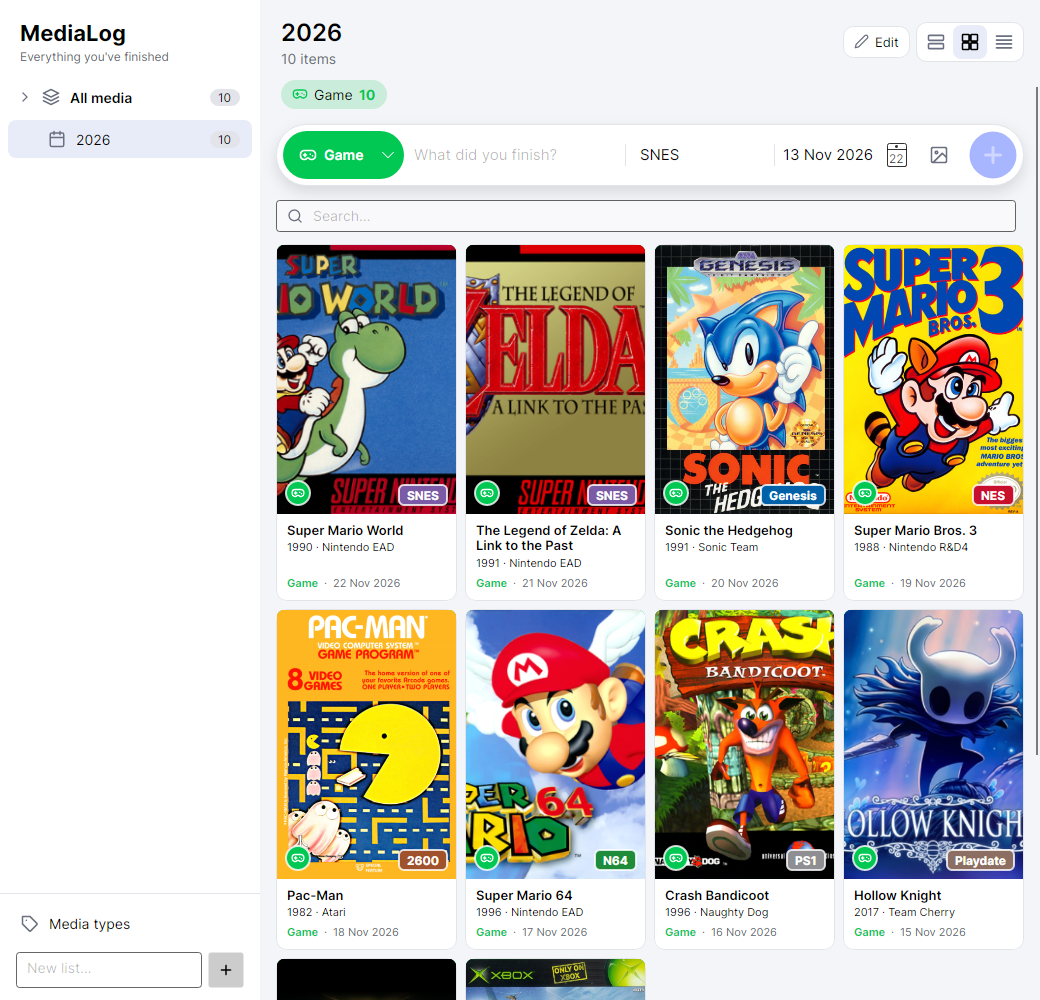
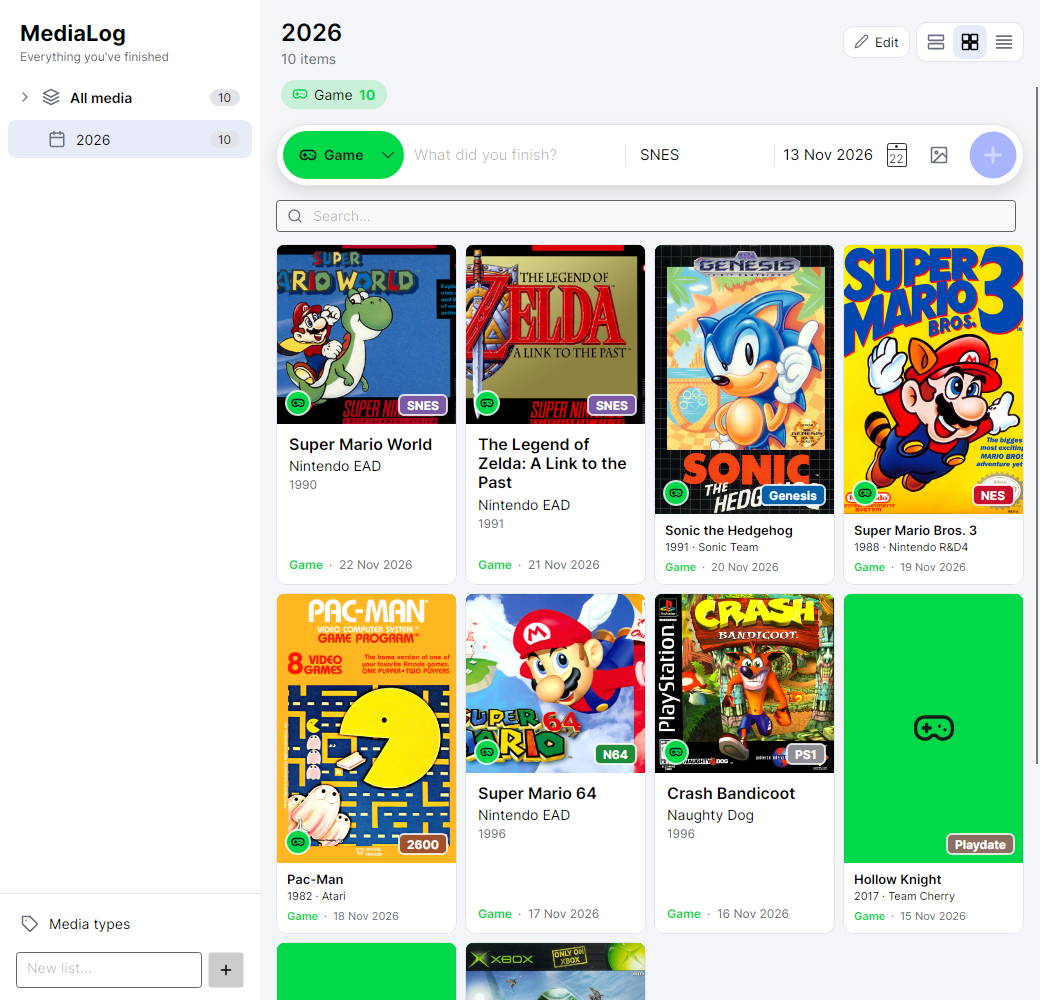
MediaLog: retro game title lookup, image-driven tile shape, badge placement
- Game title suggestions use a full-text Wikidata search restricted to
  video games (any words of the title match, not just the start), and
  with a retro console set also suggest matching titles from the
  libretro box-art collection (with cover and console).
- Tile cover shape follows the chosen image: square-ish art (albums,
  most retro game boxes) gets 1:1, tall art 2:3; without an image the
  type decides.
- Console badge sits at the end of the entry details in cards and
  compact views; compact dates no longer touch the edge.

Claude-Session: https://claude.ai/code/session_01NWBCcXr1uMHCvRDya14kEE

Changed region(s): [[0.2462, 0.248, 0.9846, 1.0], [0.3077, 0.155, 0.3385, 0.186]]

diff --git a/apps/MediaLog/MediaLog/Services/MetadataService.cs b/apps/MediaLog/MediaLog/Services/MetadataService.cs
@@ -39,14 +39,17 @@ public static class MetadataService
     private delegate Task<List<MediaSuggestion>> Source(string query, CancellationToken ct);
 
     /// <summary>Yields suggestions as each source answers (best source first when they're equally fast).</summary>
+    /// <param name="platform">Console of a game: retro consoles also search the libretro box-art titles.</param>
     public static async IAsyncEnumerable<IReadOnlyList<MediaSuggestion>> SuggestAsync(string query, MediaTypeInfo? type,
-        [EnumeratorCancellation] CancellationToken ct)
+        string? platform, [EnumeratorCancellation] CancellationToken ct)
     {
         query = query.Trim();
         if (query.Length < 2)
             yield break;
 
         var sources = SourcesFor(MediaCategories.Of(type));
+        if (MediaCategories.Of(type) == MediaCategory.Game && Platforms.BoxArtRepo(platform) is { } repo)
+            sources = [.. sources, RetroTitles(repo, platform!)];
         var tasks = sources.Select(s => SafeAsync(s, query, ct)).ToList();
         // With several sources, cap each so a fast one doesn't crowd out the others.
         var perSource = sources.Length > 1 ? 5 : MaxResults;
@@ -161,18 +164,36 @@ public static class MetadataService
     private static Source Wikidata(WikidataKind kind) => async (query, ct) =>
     {
         const string api = "https://www.wikidata.org/w/api.php?format=json&origin=*";
-        using var search = await GetJsonAsync(
-            $"{api}&action=wbsearchentities&type=item&language=en&uselang=en&limit=12&search={Uri.EscapeDataString(query)}", ct)
-            .ConfigureAwait(false);
-        var hits = search.RootElement.GetProperty("search").EnumerateArray()
-            .Select(h => (Id: Str(h, "id")!, Label: Str(h, "label") ?? query, Description: Str(h, "description")))
-            .Where(h => h.Id is not null)
-            .ToList();
+        List<(string Id, string? Label, string? Description)> hits;
+        if (kind == WikidataKind.Game)
+        {
+            // Full-text search restricted to video games: any words of the title match
+            // ("zelda link to the past"), unlike the label-prefix entity search.
+            var filter = string.Join('|', GameClasses.Select(c => "P31=" + c));
+            using var search = await GetJsonAsync(
+                $"{api}&action=query&list=search&srnamespace=0&srlimit=12&srprop=" +
+                $"&srsearch={Uri.EscapeDataString($"{query} haswbstatement:{filter}")}", ct).ConfigureAwait(false);
+            hits = search.RootElement.GetProperty("query").GetProperty("search").EnumerateArray()
+                .Select(h => (Id: Str(h, "title")!, Label: (string?)null, Description: (string?)null))
+                .Where(h => h.Id is not null)
+                .ToList();
+        }
+        else
+        {
+            using var search = await GetJsonAsync(
+                $"{api}&action=wbsearchentities&type=item&language=en&uselang=en&limit=12&search={Uri.EscapeDataString(query)}", ct)
+                .ConfigureAwait(false);
+            hits = search.RootElement.GetProperty("search").EnumerateArray()
+                .Select(h => (Id: Str(h, "id")!, Label: Str(h, "label"), Description: Str(h, "description")))
+                .Where(h => h.Id is not null)
+                .ToList();
+        }
         if (hits.Count == 0)
             return [];
 
         using var entities = await GetJsonAsync(
-            $"{api}&action=wbgetentities&props=claims|sitelinks&sitefilter=enwiki&ids={string.Join('|', hits.Select(h => h.Id))}", ct)
+            $"{api}&action=wbgetentities&props=claims|sitelinks|labels|descriptions&languages=en&sitefilter=enwiki" +
+            $"&ids={string.Join('|', hits.Select(h => h.Id))}", ct)
             .ConfigureAwait(false);
         var all = entities.RootElement.GetProperty("entities");
 
@@ -188,6 +209,10 @@ public static class MetadataService
         {
             if (!all.TryGetProperty(hit.Id, out var entity) || !entity.TryGetProperty("claims", out var claims))
                 continue;
+            var label = hit.Label ?? EnglishText(entity, "labels");
+            if (label is null)
+                continue;
+            var description = hit.Description ?? EnglishText(entity, "descriptions");
             var classes = ItemIds(claims, "P31");
             var creatorId = creatorProps.Select(p => ItemIds(claims, p).FirstOrDefault()).FirstOrDefault(id => id is not null);
             var matches = kind switch
@@ -212,7 +237,7 @@ public static class MetadataService
             if (entity.TryGetProperty("sitelinks", out var links) && links.TryGetProperty("enwiki", out var enwiki))
                 article = Str(enwiki, "title");
             var platformId = kind == WikidataKind.Game ? ItemIds(claims, "P400").FirstOrDefault() : null;
-            items.Add((hit.Label, hit.Description, year, creatorId, length, article, platformId));
+            items.Add((label, description, year, creatorId, length, article, platformId));
         }
         if (items.Count == 0)
             return [];
@@ -241,6 +266,9 @@ public static class MetadataService
                 i.PlatformId is { } p ? names.GetValueOrDefault(p) : null))
             .ToList();
     };
+
+    private static string? EnglishText(JsonElement entity, string property) =>
+        entity.TryGetProperty(property, out var values) && values.TryGetProperty("en", out var en) ? Str(en, "value") : null;
 
     private static IEnumerable<JsonElement> Statements(JsonElement claims, string property)
     {
@@ -312,6 +340,16 @@ public static class MetadataService
         }
         return result;
     }
+
+    // --- libretro box art: retro game titles for the chosen console --------------------------
+
+    private static Source RetroTitles(string repo, string platform) => async (query, ct) =>
+        (await RetroBoxArt.SearchAsync(query, repo, ct).ConfigureAwait(false))
+            .Select(r => new MediaSuggestion(RetroBoxArt.DisplayTitle(r.Title), null, null, null, r.Url, "libretro",
+                RetroBoxArt.Region(r.Title), platform))
+            .GroupBy(s => s.Title, StringComparer.OrdinalIgnoreCase) // one per title (best region first)
+            .Select(g => g.First())
+            .ToList();
 
     // --- TVmaze: TV series ------------------------------------------------------------------
 

diff --git a/apps/MediaLog/MediaLog/ViewModels/EntryViewModel.cs b/apps/MediaLog/MediaLog/ViewModels/EntryViewModel.cs
@@ -40,6 +40,8 @@ public partial class EntryViewModel : ViewModelBase
 
     public bool HasPlatform => Platform is not null;
 
+    public bool HasDetailsOrPlatform => HasDetails || HasPlatform;
+
     /// <summary>Whether the owning list name is shown (when it differs from the list being viewed).</summary>
     public bool ShowList { get; }
 
@@ -61,8 +63,23 @@ public partial class EntryViewModel : ViewModelBase
 
     public bool HasYearAndLength => YearAndLength.Length > 0;
 
-    /// <summary>Albums and podcasts have square artwork; everything else uses 2:3 posters / covers.</summary>
-    public bool IsSquareCover => MediaCategories.Of(Type) is MediaCategory.Music or MediaCategory.Podcast;
+    /// <summary>
+    /// Tile shape: follows the chosen image (square-ish art such as album covers or retro game
+    /// boxes → 1:1, tall posters / book covers → 2:3); without an image, albums and podcasts
+    /// are square and everything else 2:3.
+    /// </summary>
+    public bool IsSquareCover
+    {
+        get
+        {
+            if (Image is { PixelSize: { Width: > 0, Height: > 0 } size })
+            {
+                // Closest of 1:1 and 2:3 (compared on a log scale: the midpoint is √1.5 ≈ 1.22).
+                return (double)size.Height / size.Width < 1.22;
+            }
+            return MediaCategories.Of(Type) is MediaCategory.Music or MediaCategory.Podcast;
+        }
+    }
 
     /// <summary>Cover height ÷ width for tiles.</summary>
     public double CoverRatio => IsSquareCover ? 1.0 : 1.5;
@@ -75,7 +92,7 @@ public partial class EntryViewModel : ViewModelBase
 
     /// <summary>Cover image, once downloaded (or from cache).</summary>
     [ObservableProperty]
-    [NotifyPropertyChangedFor(nameof(HasImage))]
+    [NotifyPropertyChangedFor(nameof(HasImage), nameof(IsSquareCover), nameof(CoverRatio))]
     public partial Bitmap? Image { get; set; }
 
     public bool HasImage => Image is not null;

diff --git a/apps/MediaLog/MediaLog/ViewModels/TitleSuggestionsViewModel.cs b/apps/MediaLog/MediaLog/ViewModels/TitleSuggestionsViewModel.cs
@@ -53,12 +53,14 @@ public partial class TitleSuggestionsViewModel : ViewModelBase
     private static readonly TimeSpan Debounce = TimeSpan.FromMilliseconds(400);
 
     private readonly Func<MediaTypeInfo?> _type;
+    private readonly Func<string?> _platform;
     private readonly Action<MediaSuggestion, Bitmap?> _picked;
     private CancellationTokenSource? _cts;
 
-    public TitleSuggestionsViewModel(Func<MediaTypeInfo?> type, Action<MediaSuggestion, Bitmap?> picked)
+    public TitleSuggestionsViewModel(Func<MediaTypeInfo?> type, Func<string?> platform, Action<MediaSuggestion, Bitmap?> picked)
     {
         _type = type;
+        _platform = platform;
         _picked = picked;
     }
 
@@ -111,7 +113,7 @@ public partial class TitleSuggestionsViewModel : ViewModelBase
             HasItems = false;
             IsLoading = true;
             IsOpen = true;
-            await foreach (var batch in MetadataService.SuggestAsync(text, _type(), cts.Token))
+            await foreach (var batch in MetadataService.SuggestAsync(text, _type(), _platform(), cts.Token))
             {
                 if (cts.IsCancellationRequested)
                     return;

diff --git a/apps/MediaLog/MediaLog/ViewModels/MainViewModel.cs b/apps/MediaLog/MediaLog/ViewModels/MainViewModel.cs
@@ -52,7 +52,7 @@ public partial class MainViewModel : ViewModelBase
         NewType = Types[0];
         NewDate = DateTime.Today;
         NewCover = CreateNewCover();
-        NewSuggestions = new TitleSuggestionsViewModel(() => NewType, ApplyNewSuggestion);
+        NewSuggestions = new TitleSuggestionsViewModel(() => NewType, () => NewPlatform, ApplyNewSuggestion);
         SyncYearLists();
         SelectedNav = CurrentYearList;
         StartNewType();
@@ -172,6 +172,13 @@ public partial class MainViewModel : ViewModelBase
     public partial string NewPlatform { get; set; } = "";
 
     public bool IsNewGame => Services.MediaCategories.Of(NewType) == Services.MediaCategory.Game;
+
+    partial void OnNewPlatformChanged(string value)
+    {
+        // A retro console adds its box-art titles to the lookup: refresh open suggestions.
+        if (NewSuggestions is { IsOpen: true })
+            NewSuggestions.Update(NewName);
+    }
 
     // ==========================================================================
     // Per-type lists under "All media"

diff --git a/apps/MediaLog/MediaLog/Services/RetroBoxArt.cs b/apps/MediaLog/MediaLog/Services/RetroBoxArt.cs
@@ -104,6 +104,23 @@ public static partial class RetroBoxArt
         return await JsonDocument.ParseAsync(stream, cancellationToken: ct).ConfigureAwait(false);
     }
 
+    /// <summary>"Legend of Zelda, The - A Link to the Past (USA)" → "The Legend of Zelda: A Link to the Past".</summary>
+    public static string DisplayTitle(string fileTitle)
+    {
+        var bare = Tags().Replace(fileTitle, "").Trim();
+        var article = Regex.Match(bare, @"^(.*?), (The|A|An)( - .*)?$");
+        if (article.Success)
+            bare = $"{article.Groups[2].Value} {article.Groups[1].Value}{article.Groups[3].Value}";
+        return bare.Replace(" - ", ": ");
+    }
+
+    /// <summary>"Super Mario World (USA)" → "USA".</summary>
+    public static string? Region(string fileTitle)
+    {
+        var m = Regex.Match(fileTitle, @"\(([^)]*)\)");
+        return m.Success ? m.Groups[1].Value : null;
+    }
+
     // --- matching ---------------------------------------------------------------------
 
     [GeneratedRegex(@"\s*[\(\[][^\)\]]*[\)\]]")]

diff --git a/apps/MediaLog/MediaLog/ViewModels/EntryEditorViewModel.cs b/apps/MediaLog/MediaLog/ViewModels/EntryEditorViewModel.cs
@@ -33,7 +33,7 @@ public partial class EntryEditorViewModel : ViewModelBase
         Creator = entry.Model.Creator ?? "";
         Length = entry.Model.Length ?? "";
         Cover = new CoverPickerViewModel(entry.Model.ImageUrl, entry.Image, entry.Model.Name, () => Type, () => PlatformText);
-        Suggestions = new TitleSuggestionsViewModel(() => Type, ApplySuggestion);
+        Suggestions = new TitleSuggestionsViewModel(() => Type, () => PlatformText, ApplySuggestion);
         // No cover yet: start suggesting right away.
         if (!Cover.HasImage)
             Cover.SearchIfIdle();

diff --git a/apps/MediaLog/README.md b/apps/MediaLog/README.md
@@ -37,8 +37,9 @@ documentaries, audiobooks…
 - **Editing** – the **Edit** button at the top shows edit / delete buttons on every entry (hidden
   otherwise); the pencil opens an editor for title, type, date and list (moving it
   between lists), plus a **cover image**: *Find images* searches online by title and shows a grid of
-  suggestions to pick from (or paste any image link). Covers show in tiles mode (2:3 posters and book covers, 1:1 for albums and podcasts with a roomier
-  info layout) and as the entry badge,
+  suggestions to pick from (or paste any image link). Covers show in tiles mode — the tile follows the chosen image: 1:1 for square-ish art (albums,
+  podcasts, most retro game boxes, with a roomier info layout) and 2:3 for posters and book covers —
+  and as the entry badge,
   and are cached on disk so they work offline.
   Image sources (free, no API keys), chosen by type: Wikipedia, TVmaze (series), Open Library (books),
   iTunes (albums, podcasts, audiobooks, ebooks, movies), AniList and Jikan/MyAnimeList (anime, manga).
@@ -48,7 +49,9 @@ documentaries, audiobooks…
 - **Consoles** – games have a console field (with suggestions; typing an unknown console adds it).
   Each console shows as a small badge in its own color (SNES purple, Genesis blue, NES red, PS5…).
   Covers for retro games (NES, SNES, N64, Game Boy, Genesis, Atari 2600, PlayStation, Xbox…) come from
-  the [libretro-thumbnails](https://github.com/libretro-thumbnails) box-art collection for that console.
+  the [libretro-thumbnails](https://github.com/libretro-thumbnails) box-art collection for that console,
+  which is also searched for title suggestions once a retro console is set. Game titles are looked up
+  with a full-text Wikidata search, so any words of the title match.
 
   ![games](docs/games.png)
 - **View modes** – every list can be shown as *cards* (default), *tiles* or *compact* rows; the choice
